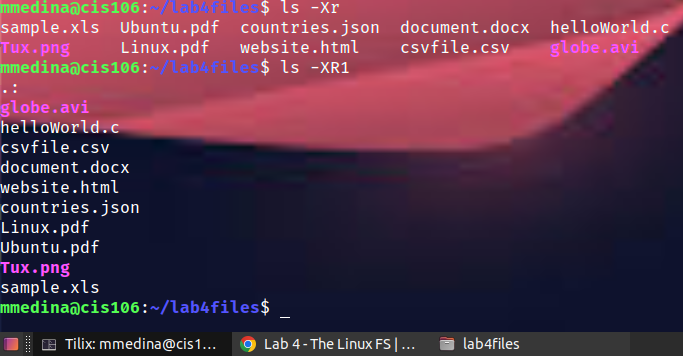
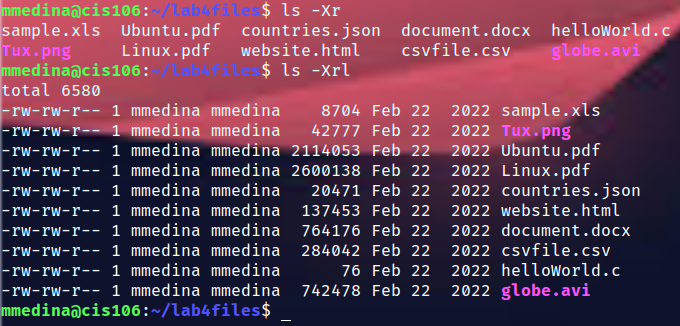
lab 4 done

diff --git a/labs/lab4/lab4.md b/labs/lab4/lab4.md
@@ -1,0 +1,23 @@
+'''
+    Michael Medina
+    Course; CIS 106
+    Semester:  Spring 23
+'''
+
+#Lab 4 The linux FS
+
+##Question 1 
+![q1](lab4.1.png)
+![q1.2](lab4.1.2.png)
+
+##Question 2
+![q2](lab4.2.1.png)
+![q2.2](lab4.2.2.png)
+![q2.3](lab4.2.3.png)
+
+
+##Question 4
+
+
+##Question 5
+
